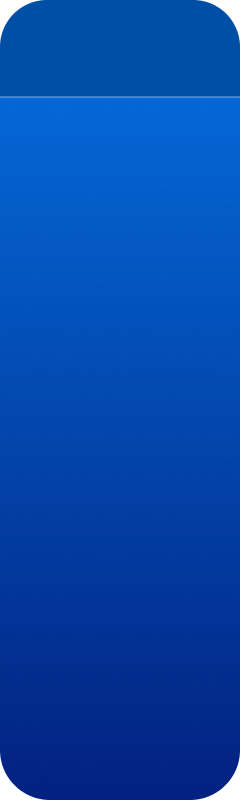
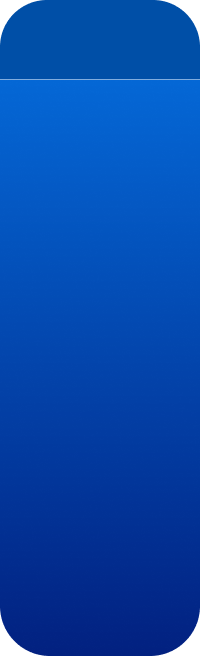
nuevos pixeles

diff --git a/Interface/dashboard.py b/Interface/dashboard.py
@@ -10,67 +10,69 @@ class Dashboard():
         self.CreacionDeVentana()
         self.ImportacionDeImagenes()
         self.agregar_widgets()
-        
-        
+
+
     def ImportacionDeImagenes(self):
-        # importacion de imagenes background e iconos 
+        # importacion de imagenes background e iconos
         self.img_bg = ImageTk.PhotoImage(Image.open("imagen/background_dashboard.png"))
-        
+
     def CrearFrames(self):
         self.panel_central = CustomTK.CTkFrame(master=self.app,fg_color=var.bg_gray_light)
-        self.panel_derecho = CustomTK.CTkFrame(master=self.panel_central,width=1000,height=800, fg_color=var.bg_white, corner_radius=100)    
-        self.panel_izquierdo = CustomTK.CTkFrame(master=self.panel_central, width=240, height=800, fg_color=var.bg_gray_light, corner_radius=20)  
+        self.panel_izquierdo = CustomTK.CTkFrame(master=self.panel_central, width=200, height=656, fg_color=var.bg_gray_light, corner_radius=20)
+        self.panel_derecho = CustomTK.CTkFrame(master=self.panel_central,width=700,height=656, fg_color=var.bg_white, corner_radius=100)
 
         #------------- posicionamiento--------------------------#
         self.panel_central.pack()
-        self.panel_derecho.grid(column=4, row=0, padx=10,pady=25,columnspan=8)
-        self.panel_izquierdo.grid(column=0, row=0, padx=20,pady=25)
+        self.panel_izquierdo.grid(row=0,column=0,padx=0,pady=10)
+        self.panel_derecho.grid(row=0,column=1,padx=20,pady=10,rowspan=4)
 
 
-    
+
     def CrearLabel(self):
         # labels
-        self.bg_izq = CustomTK.CTkLabel(master=self.panel_izquierdo, text=" ", height=800,width=240,image=self.img_bg)
-        self.label1 = CustomTK.CTkLabel(master=self.panel_derecho, text="Total de Estudiantes", 
-                                        font=var.font_text_amaranth_medium, fg_color="#84b6f4", height=100, width=200)             
+        self.bg_izq = CustomTK.CTkLabel(master=self.panel_izquierdo, text=" ", height=656,width=200,image=self.img_bg)
+        self.label1 = CustomTK.CTkLabel(master=self.panel_derecho, text="Total de Estudiantes",
+                                        font=var.font_text_amaranth_medium, fg_color="#84b6f4", height=100, width=200)
         self.label4 = CustomTK.CTkLabel(master=self.panel_derecho, text="Grafico de todas\nlas Estadisticas",
-                                        font=var.font_text_amaranth_medium, fg_color="#84b6f4", height=250, width=800)  
-        self.titulo = CustomTK.CTkLabel(master=self.panel_derecho, text="Panel Principal", font=("consola", 30, "bold" ))        
-        self.sub_titulo = CustomTK.CTkLabel(master=self.panel_derecho, text="Bienvenido (Usuario)", font=var.font_text_bold_small) 
-        
+                                        font=var.font_text_amaranth_medium, fg_color="#84b6f4", height=250, width=200)
+        self.titulo = CustomTK.CTkLabel(master=self.panel_derecho, text="Panel Principal", font=("consola", 30, "bold" ))
+        self.sub_titulo = CustomTK.CTkLabel(master=self.panel_derecho, text="Bienvenido (Usuario)", font=var.font_text_bold_small)
+
         # -------------posicionamiento general ----------------#
-        
+
+        self.bg_izq.place(x=0,y=0)
+        self.titulo.place(x=150, y=30)
         self.label1.place(x=100, y=150)
         self.label4.place(x=150, y=350)
-        self.titulo.place(x=150, y=30)
         self.sub_titulo.place(x=150, y=70)
-        self.bg_izq.place(x=0,y=0)
-        
+
     def crear_botones(self):
+        pass
         # Botones panel izquierdo
-        self.home = CustomTK.CTkButton(master=self.panel_izquierdo,
-                                    width=100,
-                                    text="Home",
-                                    corner_radius=100,
-                                    hover_color="#006BD7",
-                                    bg_color="#0463D1",
-                                    fg_color=var.blue_button,
-                                    font=var.font_text_button)
-        
-        # --------posicionamiento general---------------#
-        self.home.place(x=60,y=120)
-        
-        
+        # self.home = CustomTK.CTkButton(master=self.panel_izquierdo,
+        #                             width=100,
+        #                             text="Home",
+        #                             corner_radius=100,
+        #                             hover_color="#006BD7",
+        #                             bg_color="#0463D1",
+        #                             fg_color=var.blue_button,
+        #                             font=var.font_text_button)
+
+        # # --------posicionamiento general---------------#
+        # self.home.place(x=60,y=120)
+
+
     def ConfigurarcionDeApariencia(self):
         # definicion de apariencia
         CustomTK.set_appearance_mode("light")
         CustomTK.set_default_color_theme("blue")
-        
+
     def CreacionDeVentana(self):
         # creacion de ventana
         self.app = CustomTK.CTk()
-        self.app.geometry("1240x720")
-        self.app.title("Dashboard")        
+        self.app.geometry("1024x700")
+        self.app.resizable(0,0)
+        self.app.title("Dashboard")
         for i in range(10):
             self.app.grid_rowconfigure(i, weight=1)
             self.app.grid_columnconfigure(i, weight=1)
@@ -81,7 +83,7 @@ class Dashboard():
         self.CrearFrames()
         self.CrearLabel()
         self.crear_botones()
-    
+
     def run(self):
         # Funcion auto-ejecutable
         self.app.mainloop() #esto tiene que ir de ultimo

diff --git a/Interface/login2.py b/Interface/login2.py
@@ -28,17 +28,17 @@ class LoginApp:
     def parte_central(self):
         # parte izquierda
         self.frame = CustomTK.CTkFrame(master=self.div_login,
-                                        width=663,
+                                        width=463,
                                         height=546)
         
         #parte derecha
         self.frame2 = CustomTK.CTkFrame(master=self.div_login,
-                                        width=457,
+                                        width=357,
                                         height=546,
                                         fg_color=var.bg_white)
         # -- Posicionamiento --
-        self.frame.place(relx=0.58, rely=0.5, anchor=tk.E) #posicion del frame
-        self.frame2.place(relx=0.58,rely=0.5,anchor=tk.W) #posicion del frame
+        self.frame.place(relx=0.54, rely=0.5, anchor=tk.E) #posicion del frame
+        self.frame2.place(relx=0.54,rely=0.5,anchor=tk.W) #posicion del frame
     
     
     def derecha(self):
@@ -137,8 +137,9 @@ class LoginApp:
     # metodo para crear la ventana principal
     def crear_ventana_principal(self):
         self.app = CustomTK.CTk()
-        self.app.geometry("1240x720")
+        self.app.geometry("920x600")
         self.app.title("Login")
+        # self.app.resizable(0,0)
     
     
     # funcion de bucle
